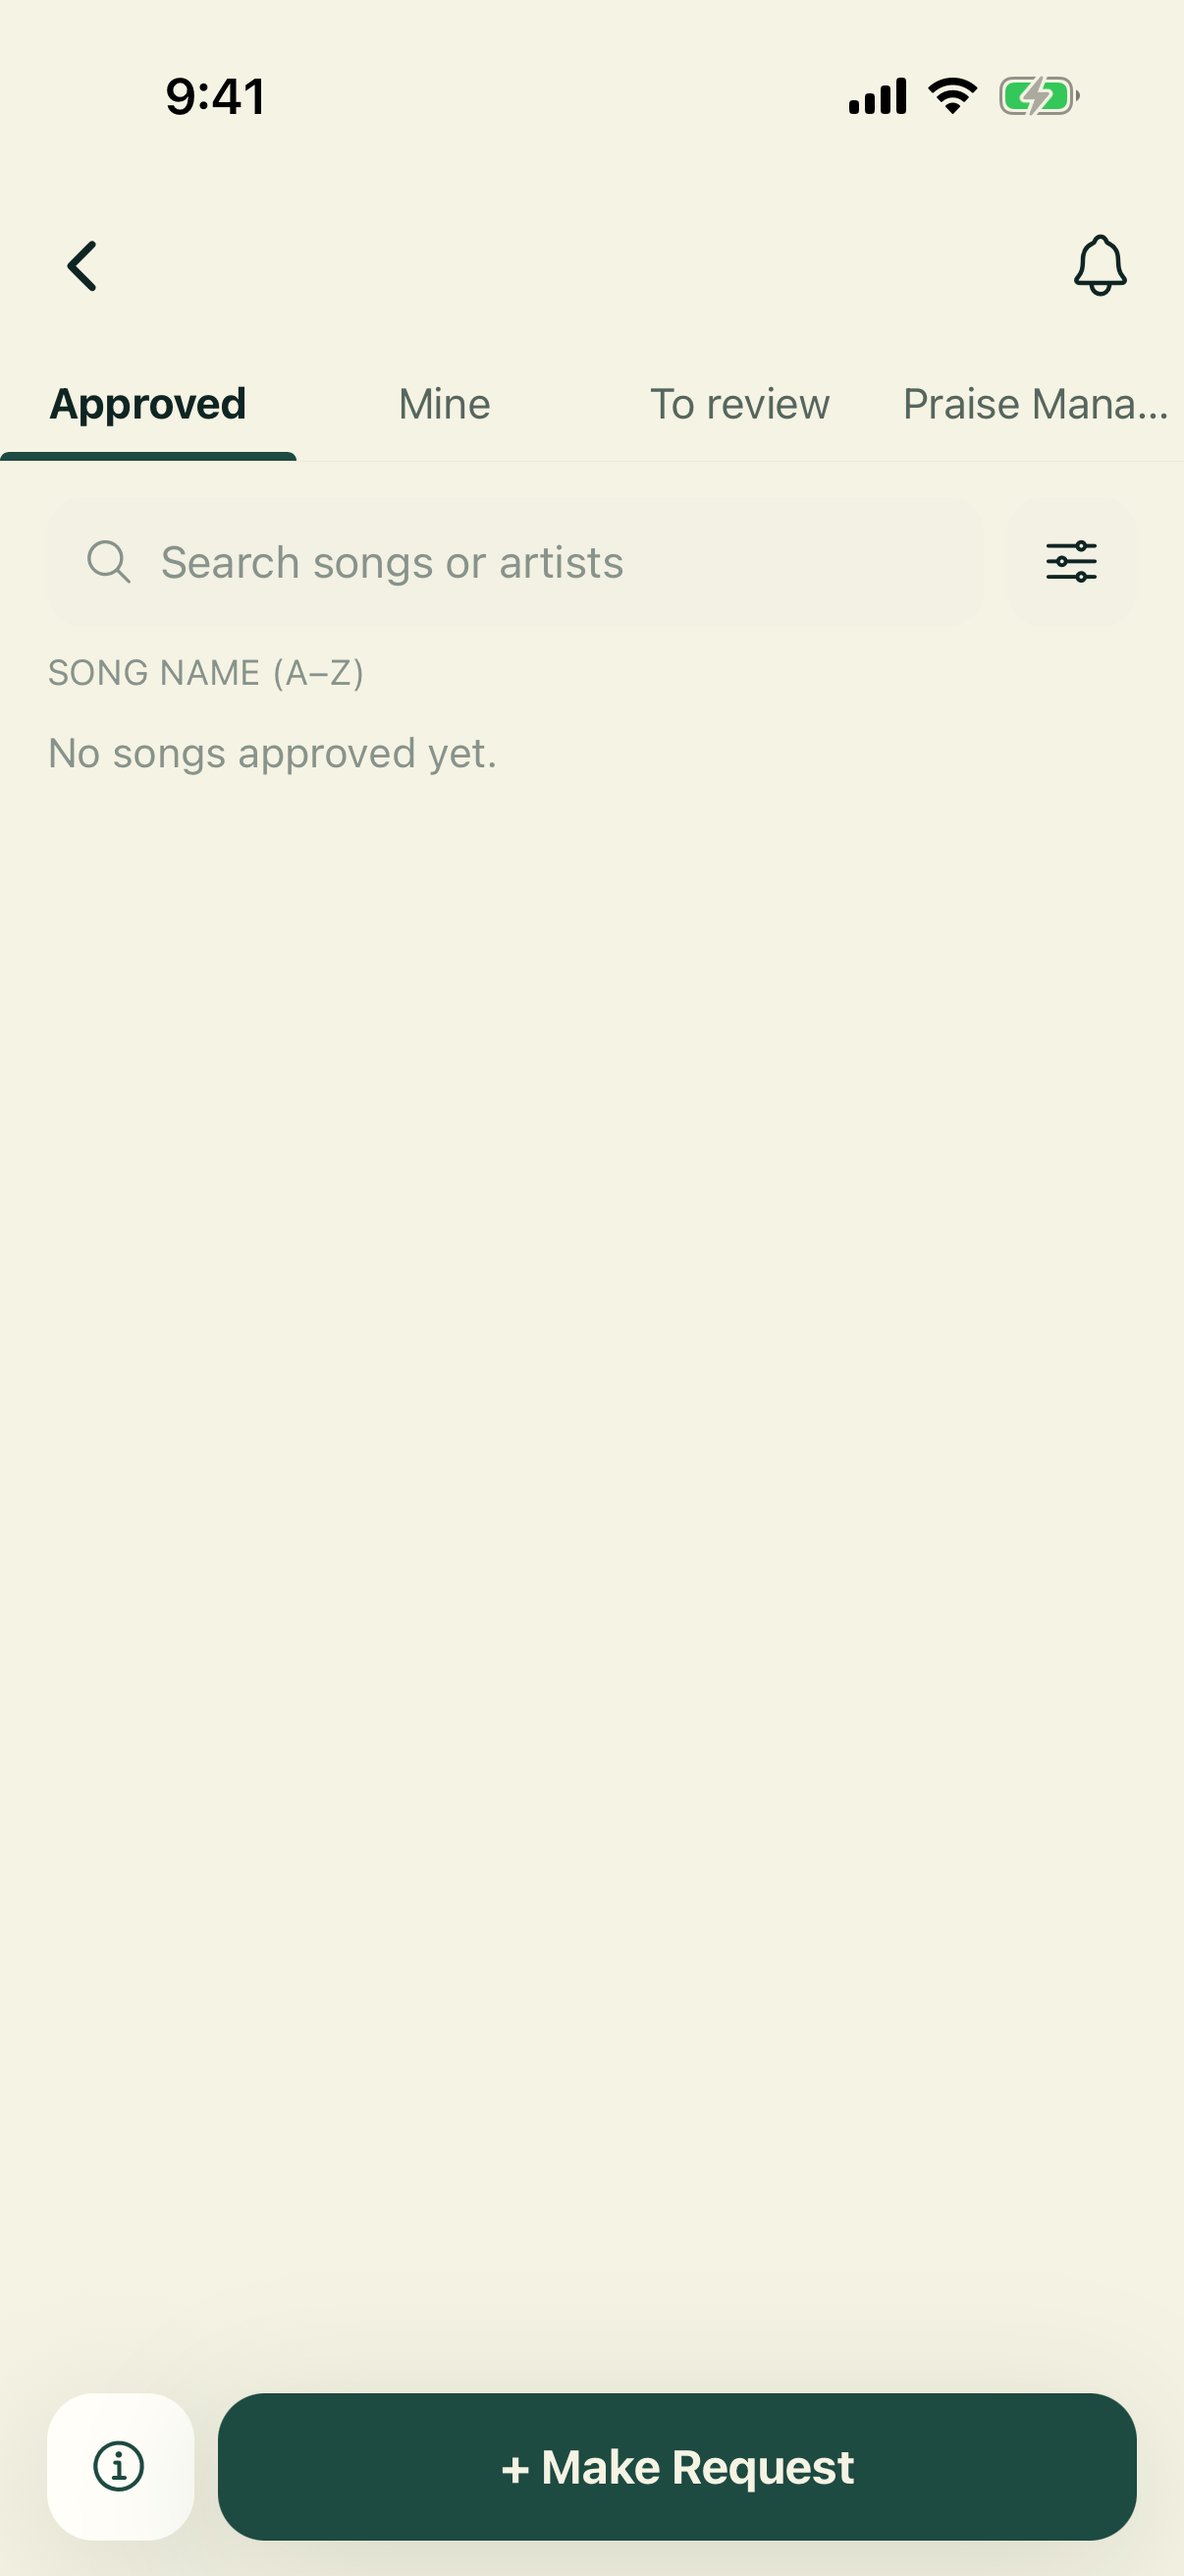
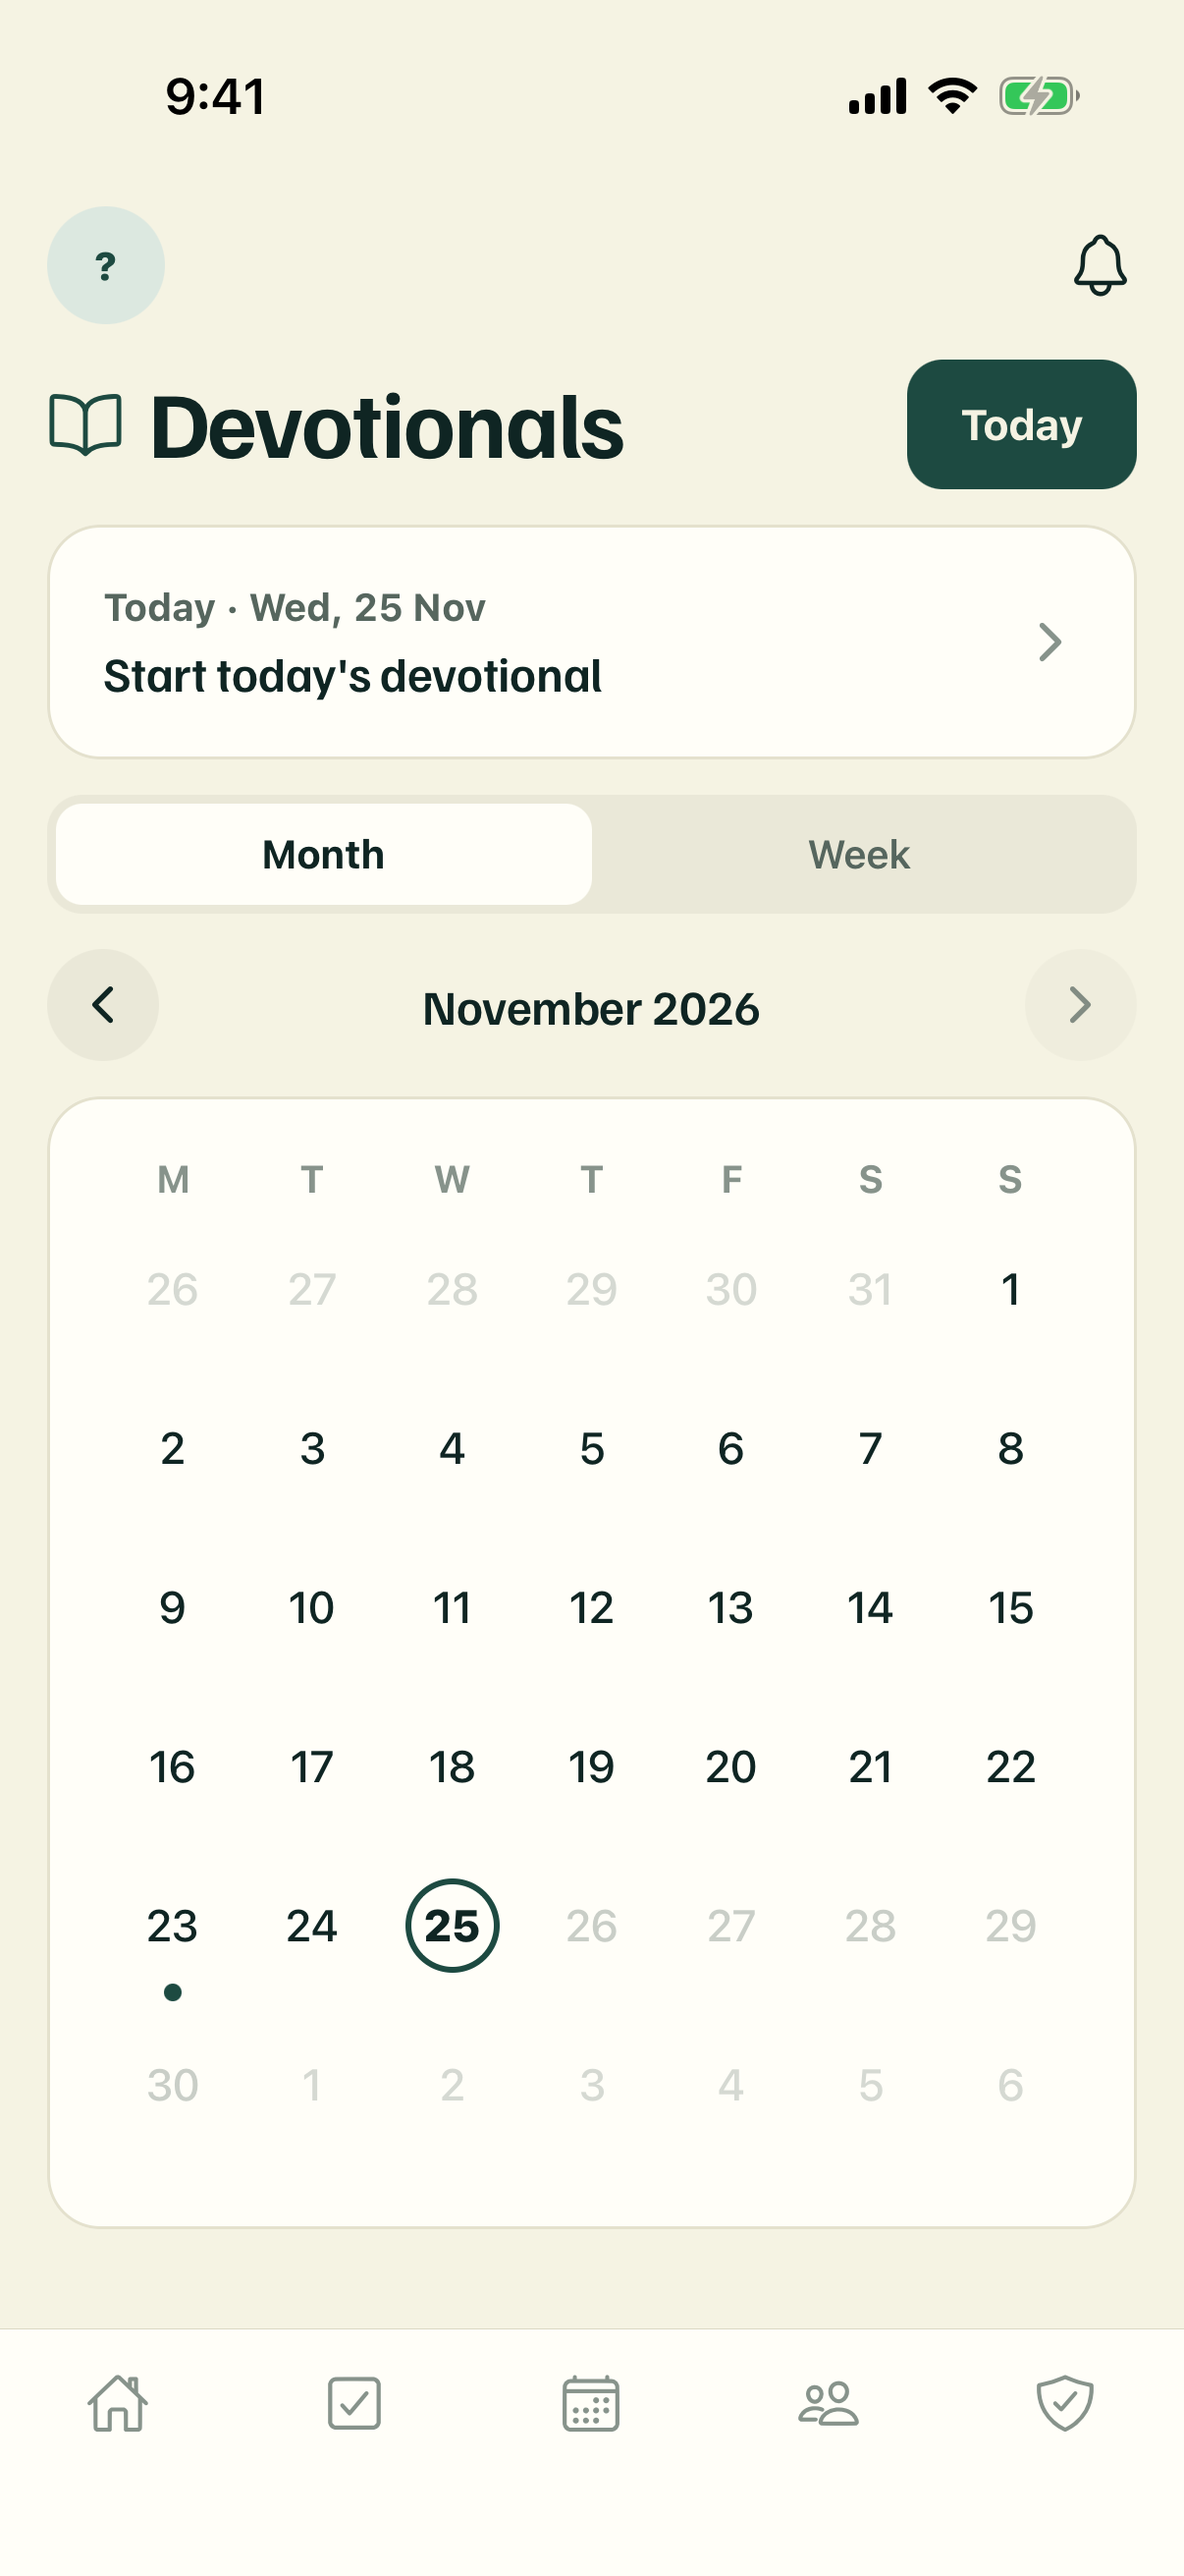
screenshots for HEAD

diff --git a/HEAD/README.md b/HEAD/README.md
@@ -1,35 +1,33 @@
 # verify: scoped
 
-- because world: src/world/Person.tsx
-- because world: src/world/hatHeight.ts
+- because devotionals: shared/bible.ts
+- because devotionals: src/components/devotionals/DevotionalEditor.tsx
+- because devotionals: src/components/devotionals/PassagePicker.tsx
 
 | Step | Result | Time | Detail |
 | --- | --- | --- | --- |
 | base tree | ✔ pass | 0s |  |
-| native fingerprint | ✔ pass | 3s | unchanged on iOS and Android: over-the-air updates reach current builds |
-| lint | ✔ pass | 62s |  |
-| unused code (knip) | ✔ pass | 5s |  |
-| typecheck | ✔ pass | 15s |  |
-| related unit tests | ✔ pass | 2s | 4 passed (4) |
-| verify lock | ✔ pass | 0s | free, taken at once |
-| before: local backend | ✔ pass | 15s | before functions on :3270 |
+| native fingerprint | ✔ pass | 5s | unchanged on iOS and Android: over-the-air updates reach current builds |
+| lint | ✔ pass | 79s |  |
+| unused code (knip) | ✔ pass | 6s |  |
+| typecheck | ✔ pass | 18s |  |
+| related unit tests | ✔ pass | 16s | 1662 passed (1662) |
+| verify lock | ✔ pass | 759s | took it after waiting 759s for pid 48961, feat/coins-top3 in /Users/xtectra/GitHub/worktrees/the-shed-mobile-coins-top3, since 2026-11-24T16:59:41.225Z |
+| before: local backend | ✔ pass | 19s | before functions on :3270 |
 | before: iOS reset | ✔ pass | 1s |  |
-| before: iOS | ✔ pass | 110s | 10 screenshots, every one settled |
-| after: local backend | ✔ pass | 15s | after functions on :3270 |
+| before: iOS | ✔ pass | 71s | 7 screenshots, every one settled |
+| after: local backend | ✔ pass | 65s | after functions on :3270 |
 | after: iOS reset | ✔ pass | 1s |  |
-| after: iOS | ✔ pass | 108s | 10 screenshots, every one settled |
+| after: iOS | ✔ pass | 73s | 7 screenshots, every one settled |
 
 ## Screenshots
 
 | Screen | Before | After |
 | --- | --- | --- |
-| ios `admin-games` | <img src="before/ios/admin-games.png" width="260"> | <img src="after/ios/admin-games.png" width="260"> |
+| ios `admin-devotionals` | <img src="before/ios/admin-devotionals.png" width="260"> | <img src="after/ios/admin-devotionals.png" width="260"> |
+| ios `admin-devotionals_devotionalDate` | <img src="before/ios/admin-devotionals_devotionalDate.png" width="260"> | <img src="after/ios/admin-devotionals_devotionalDate.png" width="260"> |
+| ios `admin-devotionals_devotionalEmptyDate` | <img src="before/ios/admin-devotionals_devotionalEmptyDate.png" width="260"> | <img src="after/ios/admin-devotionals_devotionalEmptyDate.png" width="260"> |
 | ios `admin-home` | <img src="before/ios/admin-home.png" width="260"> | <img src="after/ios/admin-home.png" width="260"> |
 | ios `admin-root` | <img src="before/ios/admin-root.png" width="260"> | <img src="after/ios/admin-root.png" width="260"> |
-| ios `admin-world` | <img src="before/ios/admin-world.png" width="260"> | <img src="after/ios/admin-world.png" width="260"> |
-| ios `admin-world_calendar` | <img src="before/ios/admin-world_calendar.png" width="260"> | <img src="after/ios/admin-world_calendar.png" width="260"> |
-| ios `admin-world_praise` | <img src="before/ios/admin-world_praise.png" width="260"> | <img src="after/ios/admin-world_praise.png" width="260"> |
-| ios `admin-world_sheet_character` | <img src="before/ios/admin-world_sheet_character.png" width="260"> | <img src="after/ios/admin-world_sheet_character.png" width="260"> |
-| ios `admin-world_sheet_poke` | <img src="before/ios/admin-world_sheet_poke.png" width="260"> | <img src="after/ios/admin-world_sheet_poke.png" width="260"> |
 | ios `out-home` | <img src="before/ios/out-home.png" width="260"> | <img src="after/ios/out-home.png" width="260"> |
 | ios `out-root` | <img src="before/ios/out-root.png" width="260"> | <img src="after/ios/out-root.png" width="260"> |
